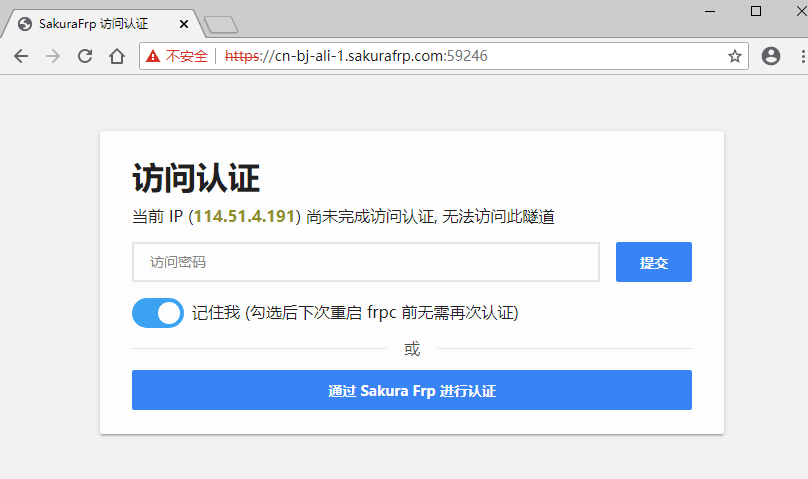
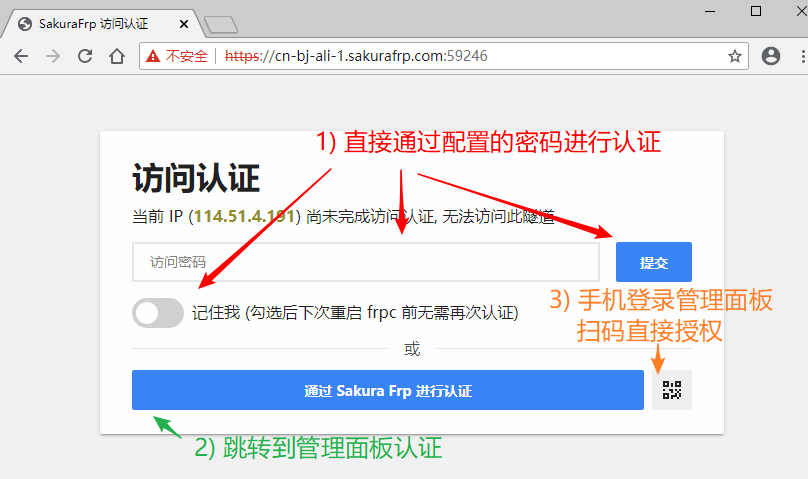
bp/security: repolish bp/frpc-auth: new auth manual

diff --git a/.vuepress/config.ts b/.vuepress/config.ts
@@ -1,12 +1,16 @@
 import { defaultTheme, defineUserConfig } from 'vuepress';
+import { getDirname, path } from '@vuepress/utils';
 
 import { sitemapPlugin } from 'vuepress-plugin-sitemap2';
 import { mdEnhancePlugin } from 'vuepress-plugin-md-enhance';
 import { nextSearchPlugin } from 'vuepress-plugin-next-search';
+import { registerComponentsPlugin } from '@vuepress/plugin-register-components';
 
 import { html5Media as mdItHtml5Media } from 'markdown-it-html5-media';
 
 import sections from './sections';
+
+const __dirname = getDirname(import.meta.url);
 
 export default defineUserConfig({
 	base: '/',
@@ -82,6 +86,9 @@ export default defineUserConfig({
 	}),
 
 	plugins: [
+		registerComponentsPlugin({
+			componentsDir: path.resolve(__dirname, './components'),
+		}),
 		mdEnhancePlugin({
 			tabs: true,
 			attrs: true,

diff --git a/.vuepress/components/random-string.vue b/.vuepress/components/random-string.vue
@@ -1,0 +1,33 @@
+<template>
+	{{ result }}
+</template>
+
+<script setup lang="ts">
+import { toRefs } from 'vue';
+
+const props = defineProps({
+	seed: {
+		type: String,
+		default: 'ABCDEFGHIJKLMNOPQRSTUVWXYZabcdefghijklmnopqrstuvwxyz0123456789!@#$%^&*'
+	},
+	length: {
+		type: Number,
+		default: 24
+	}
+});
+const { seed, length } = toRefs(props);
+
+let result = '';
+const characters = seed.value;
+if (window.crypto?.getRandomValues !== undefined) {
+	const rng = new Uint8Array(length.value);
+	window.crypto.getRandomValues(rng);
+	for (const r of rng) {
+		result += characters.charAt(Math.floor((r / 0xFF) * characters.length));
+	}
+} else {
+	for (let i = 0; i < length.value; i++) {
+		result += characters.charAt(Math.floor(Math.random() * characters.length));
+	}
+}
+</script>

diff --git a/.vuepress/sections.ts b/.vuepress/sections.ts
@@ -91,6 +91,7 @@ const sections = {
 		text: '最佳实践',
 		children: [
 			'/bestpractice/security.md',
+			'/bestpractice/frpc-auth.md',
 			'/bestpractice/realip.md',
 		],
 	},

diff --git a/bestpractice/frpc-auth.md b/bestpractice/frpc-auth.md
@@ -1,0 +1,103 @@
+# 配置访问认证功能
+
+::: tip 版本需求
+基本的密码认证功能需使用 **v0.35.1-sakura-1** 及以上版本的 frpc  
+启用 TOTP 支持需使用 **v0.42.0-sakura-3** 及以上版本的 frpc
+:::
+
+启用访问认证后，未经授权的 IP 将无法访问您的隧道，这可以有效回避密码被爆破、遭到 0day 攻击等安全风险。
+
+对于 SSH、RDP 等易被尝试爆破攻击的服务来说，启用访问认证将能够有效减少被爆破造成的经济损失。
+
+## 视频教程 {#video-guide}
+
+*注: 视频教程有一些过期了，建议先看文字教程，看不懂再看这个*
+
+::: details 点击展开
+
+![](@source/bestpractice/_videos/security.mp4)
+
+:::
+
+## 注意事项 {#note}
+
+1. 若当前 IP 因为未认证而被 frpc 拦截，直接访问隧道可能会出现各种奇怪的错误
+   - 具体现象取决于您穿透的应用，最常见的是连接卡住 (与于隧道不在线类似，但不完全相同)
+   - 启用访问认证后碰到这类奇妙问题请先检查是否已完成认证，用浏览器访问一下试试
+1. 重启 frpc 后授权缓存会被清空，因此所有 IP 都需要重新授权
+1. 启用访问认证后，Web 认证由 frpc 本地处理，会产生极少量的流量消耗用于认证
+
+## 配置访问认证 {#setup}
+
+::: tip
+TOTP 和 访问密码可以同时配置以实现 2FA，也可以单独配置一项来启用单个认证方式
+:::
+
+在 TCP 隧道的 **访问密码** 一栏设置一个密码并重启隧道即可启用访问认证功能。
+
+高级用户也可以在 **访问认证 TOTP** 一栏配置 TOTP 功能 [(auth_totp 选项)](/frpc/manual.md#tcp_proxy)，推荐点击生成按钮打开扫码配置界面。
+
+![](./_images/auth-0.png)
+
+## 访问隧道 {#connect}
+
+::: tip
+每个 IP 都必须完成授权才能连接隧道，这就意味着若您想让他人连接隧道，对方也 **必须完成** 访问认证  
+为了简化这一流程，您可以生成 [认证代理](/offtopic/auth-guest.md) 程序分发给访客，运行生成的程序就能自动完成认证
+:::
+
+假设您配置了一个 **远程桌面** 隧道，启用认证前的连接方式是 `cn-bj-ali-1.sakurafrp.com:59246`，则一个完整的连接流程如下:
+
+<!-- markdownlint-disable MD034 -->
+1. 在连接远程桌面前，通过浏览器访问 `https://cn-bj-ali-1.sakurafrp.com:59246`，此时应该会看到访问认证界面：
+
+   ::: warning
+   请输入完整的 **https://** 前缀，否则 **可能打不开** 认证界面，如果节点域名打不开可以试着用 **节点 IP** 访问  
+   提示证书错误是正常的，如有需要可以 [配置 SSL 证书](/frpc/ssl.md#authpanel) 避免证书错误的提示
+   :::
+
+   ![](./_images/auth-1.png)
+
+1. 目前我们提供 4 种认证方式可供选择:
+
+   - 直接输入之前配置的访问密码 (和/或 TOTP 代码)，按需勾选 "记住我" 并点击 **提交** 按钮：
+
+     ![](./_images/auth-6.png)
+
+   - 点击 **通过 Sakura Frp 进行认证** 按钮，跳转到 Sakura Frp 面板，登录账户后点击 **授权访问** 进行授权：
+
+     ![](./_images/auth-2.png)
+
+   - 点击右下角二维码图标，使用已经登录管理面板的手机扫描弹出二维码后点击 **授权访问** 进行授权：
+
+     采用手机扫码可以方便的给没有登录账户的电脑授权，同时避免账号密码泄露的风险。
+
+     ![](./_images/auth-7.png)
+
+   - 在已经登录管理面板的设备上找到隧道，点击授权访问按钮手动输入 IP 进行授权：
+
+     ![](./_images/auth-5.png)
+
+1. 认证完成后，再次通过浏览器访问认证界面时您可能会看到 **无法访问此网站** 的错误。
+
+   这是正常现象，如果隧道没有掉线则该错误说明当前 IP 已完成认证并可以正常访问服务了。
+
+   ![](./_images/auth-3.png)
+
+1. 现在，使用 `远程桌面连接` 程序像以前一样正常连接远程桌面即可
+
+   ![](./_images/auth-4.png)
+
+## 自动化认证 {#automation}
+
+如果您需要一个自动化的认证方案，可以参考下方实现：
+
+```bash
+curl -k -X POST \
+   -d "persist_auth=<on/off>" \
+   -d "pw=<认证密码>" \
+   -d "totp=<TOTP 代码，如果需要>" \
+   "https://<隧道地址>"
+```
+
+我们 **更推荐** 您使用 [SakuraFrp 认证代理](/offtopic/auth-guest.md) 自动完成认证流程，配置后只需打开认证代理即可自动完成访问认证。

diff --git a/frpc/manual.md b/frpc/manual.md
@@ -50,7 +50,7 @@
 | concat_packet | Int | -1 | 配置合并封包功能的最小字节数，有助于减少小包并降低网卡 PPS<br>设置为 `-1` 禁用合并封包功能 |
 | auto_https | String | 空 | 配置自动 HTTPS 功能<br>请参阅 [配置 frpc 的自动 HTTPS 功能](/faq/site-inaccessible.md#frpc-auto-https) 获取更多信息 |
 | auto_https_mode | String | 空 | 配置自动 HTTPS 的工作模式<br>- 留空 **[默认值]**: 自动探测是否为 HTTP 服务并选择恰当的工作模式<br>- `http`: 使用 HTTP 服务器进行反代并在发给本地服务的请求中追加 `X-Forwarded-For` 请求头<br>- `passthrough`: 直通模式，单纯的在 TCP 流外面套上一层 TLS，不对数据包进行其他修改操作 |
-| auth_pass | String | 空 | 配置访问认证功能的密码，留空则禁用密码认证<br>请参阅 [安全指南-frpc 访问认证](/bestpractice/security.md#auth) 获取更多信息 |
+| auth_pass | String | 空 | 配置访问认证功能的密码，留空则禁用密码认证<br>请参阅 [安全指南-frpc 访问认证](/bestpractice/frpc-auth.md) 获取更多信息 |
 | auth_totp | String | 空 | 配置访问认证的 TOTP 功能，留空则禁用 TOTP 认证<br>- 留空 **[默认值]**: 不启用 TOTP 验证<br>- Base32 种子: 使用默认配置启用 TOTP<br>- TOTP URI: 使用自定义配置启用 TOTP, 可选参数有 `digits`、`skew`、`algorithm`<br>&nbsp;&nbsp;_例: `otpauth://totp/auto?secret=<种子>&digits=<数字>&skew=<周期>&algorithm=<算法>`_<br>&nbsp;&nbsp;_* algorithm 参数取值为 `md5`、`sha1` (默认)、`sha256`、`sha512`_<br>_* frpc v0.42.0-sakura-3 及以上版本可用_ |
 | auth_time | String | 2h | 配置访问认证功能在没有勾选「记住」时授权过期时间<br>接受的后缀为 `h`/`m`/`s`，请从大到小排列，如 `1h3m10s` |
 | auth_mode | String | online | 配置 SakuraFrp 访问认证功能的认证模式<br>- `online`: 允许通过密码认证或通过 SakuraFrp 面板进行授权<br>- `standalone`: 仅允许通过密码认证, 忽略 SakuraFrp 服务器下发的授权信息<br>- `server`: 不启用密码，只能通过 SakuraFrp 面板进行授权 |

diff --git a/offtopic/auth-guest.md b/offtopic/auth-guest.md
@@ -1,6 +1,6 @@
-# 生成并使用 SakuraFrp 专用认证工具
+# 生成并使用 SakuraFrp 认证代理
 
-如果您已按照 [最佳实践/安全指南/frpc 访问认证](/bestpractice/security.md#auth) 一节配置过访问认证功能，想必您会对于经常需要打开浏览器进行验证感到厌烦。
+如果您已按照 [配置访问认证](/bestpractice/frpc-auth.md) 一节配置过访问认证功能，想必您会对于经常需要打开浏览器进行验证感到厌烦。
 
 除了参考上述文档中给出的示例制作 bash 脚本外，您可以使用 [SakuraFrp 认证代理](https://github.com/natfrp/auth-guest/) 制作内嵌了认证信息的专用工具。
 

diff --git a/faq.md b/faq.md
@@ -32,6 +32,6 @@ sidebar: false
 
 - 如果您碰到的问题不在上述列表中，请参阅 [其他常见问题](/faq/misc.md)
 
-- 如果您在使用时遇到流量莫名损失的情况，建议您参阅 [安全实践-访问认证](/bestpractice/security.md#auth) 配置访问认证
+- 如果您在使用时遇到流量莫名损失的情况，建议您参阅 [安全实践-访问认证](/bestpractice/frpc-auth.md) 配置访问认证
 
 - 有一些 Geek 的问题？请参阅我们的 [高级用户相关说明](/geek.md)

diff --git a/app/wol.md b/app/wol.md
@@ -1,7 +1,7 @@
 # 远程开机 (WOL 网络唤醒) 配置指南
 
 ::: tip 版本需求
-开启 WoL 隧道需使用 **0.34.2-sakura-3** 以上版本的 frpc
+开启 WoL 隧道需使用 **v0.34.2-sakura-3** 以上版本的 frpc
 :::
 
 ## 配置 WOL 功能
